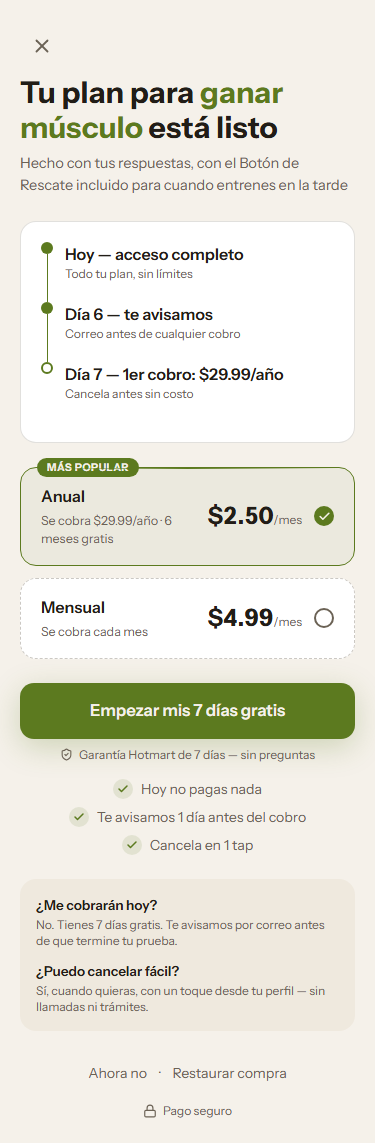
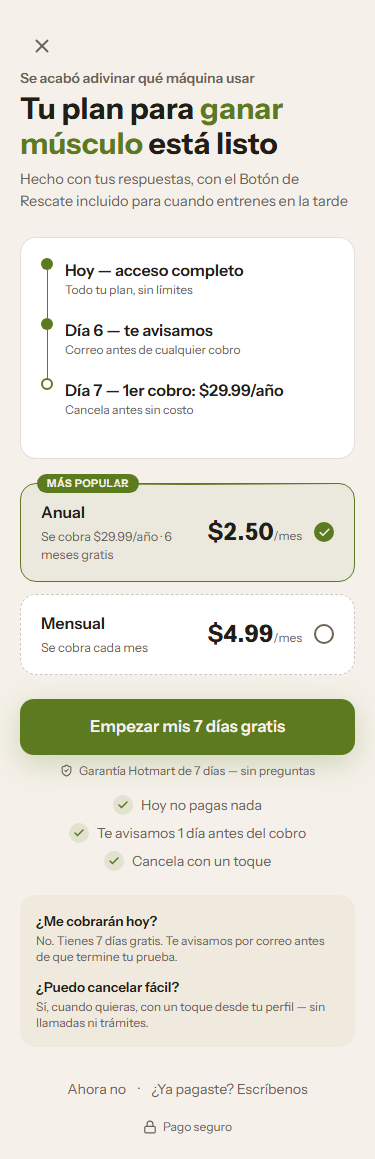
fix: paywall — feedback de confianza antes del checkout externo, reduced-motion y copy
El CTA ahora muestra un aviso breve ("Te llevamos a Hotmart, pago seguro...")
antes de saltar al dominio externo, en vez de redirigir en silencio en el
momento más sensible (el pago) — responde a la objeción del avatar sobre
cobros ocultos. Se agrega prefers-reduced-motion a todas las animaciones de
entrada, se corrige el anglicismo "1 tap", se agrega una línea que reconoce
el dolor real antes del alivio en el headline, y "Restaurar compra" ahora
dice lo que de verdad hace (escribir a soporte, no una restauración
automática).

diff --git a/app/paywall/page.tsx b/app/paywall/page.tsx
@@ -10,16 +10,18 @@
 
 import { useEffect, useState } from 'react';
 import { useRouter } from 'next/navigation';
-import { motion } from 'motion/react';
-import { Check, Lock, ShieldCheck, X } from 'lucide-react';
+import { motion, useReducedMotion } from 'motion/react';
+import { Check, Loader2, Lock, ShieldCheck, X } from 'lucide-react';
 import { HORARIO_LABEL, META_LABEL, leerRespuestas, type RespuestasOnboarding } from '@/lib/onboarding';
 
 type PlanId = 'anual' | 'mensual';
 
 export default function PaywallPage() {
   const router = useRouter();
+  const reduce = useReducedMotion();
   const [respuestas, setRespuestas] = useState<RespuestasOnboarding | null>(null);
   const [plan, setPlan] = useState<PlanId>('anual');
+  const [redirigiendo, setRedirigiendo] = useState(false);
 
   // sessionStorage no existe en el servidor: leerlo en el initializer de
   // useState causa mismatch de hydration. Este efecto es la forma correcta.
@@ -38,10 +40,17 @@ export default function PaywallPage() {
         : process.env.NEXT_PUBLIC_HOTMART_CHECKOUT_MENSUAL;
 
     if (checkoutUrl) {
-      // El webhook conecta la compra a la cuenta por CORREO (ver
-      // app/api/webhooks/hotmart/route.ts) — no hace falta pasar nada más
-      // acá. Después de pagar, Hotmart lleva al comprador a /login.
-      window.location.href = checkoutUrl;
+      // Hallazgo revisor-visual: saltar en silencio a un dominio externo en
+      // el momento del pago es justo lo que teme el avatar ("¿es otra app
+      // con cobros ocultos?"). Un aviso breve antes de salir da confianza
+      // sin agregar fricción real (300ms, no un loader eterno).
+      setRedirigiendo(true);
+      setTimeout(() => {
+        // El webhook conecta la compra a la cuenta por CORREO (ver
+        // app/api/webhooks/hotmart/route.ts) — no hace falta pasar nada más
+        // acá. Después de pagar, Hotmart lleva al comprador a /login.
+        window.location.href = checkoutUrl;
+      }, 200);
       return;
     }
 
@@ -63,9 +72,14 @@ export default function PaywallPage() {
           <X size={22} />
         </button>
 
-        <motion.div initial={{ opacity: 0, y: 12 }} animate={{ opacity: 1, y: 0 }} transition={{ duration: 0.3 }}>
+        <motion.div initial={reduce ? {} : { opacity: 0, y: 12 }} animate={{ opacity: 1, y: 0 }} transition={{ duration: 0.3 }}>
+          {/* Eyebrow que reconoce el dolor real antes del alivio (FICHA-AVATAR:
+              terror a lesionarse + vergüenza de no saber qué hacer frente a las
+              máquinas) — hallazgo revisor-visual: el headline saltaba directo
+              a la solución sin agitar la objeción que trae al avatar hasta acá. */}
+          <p className="text-sm font-semibold text-[var(--text-tertiary)]">Se acabó adivinar qué máquina usar</p>
           {/* (2) Headline con la META real del usuario */}
-          <h1 className="mt-2 text-balance text-3xl font-bold leading-[1.15] text-[var(--text-primary)] [font-family:var(--font-display)]">
+          <h1 className="mt-1 text-balance text-3xl font-bold leading-[1.15] text-[var(--text-primary)] [font-family:var(--font-display)]">
             Tu plan para <span className="text-[var(--accent)]">{meta}</span> está listo
           </h1>
           <p className="mt-2 text-[14.5px] text-[var(--text-secondary)]">
@@ -75,7 +89,7 @@ export default function PaywallPage() {
 
         {/* (3) Visual del valor: timeline del trial — el default con trial (C4) */}
         <motion.div
-          initial={{ opacity: 0, y: 12 }}
+          initial={reduce ? {} : { opacity: 0, y: 12 }}
           animate={{ opacity: 1, y: 0 }}
           transition={{ delay: 0.08, duration: 0.3 }}
           className="mt-6 rounded-[var(--radius-card)] border border-[color-mix(in_oklab,var(--text-tertiary)_20%,transparent)] bg-[var(--surface)] p-5"
@@ -85,7 +99,7 @@ export default function PaywallPage() {
 
         {/* (4)(5) Plan cards — ANUAL primero, pre-seleccionado */}
         <motion.div
-          initial={{ opacity: 0, y: 12 }}
+          initial={reduce ? {} : { opacity: 0, y: 12 }}
           animate={{ opacity: 1, y: 0 }}
           transition={{ delay: 0.16, duration: 0.3 }}
           className="mt-6 flex flex-col gap-3"
@@ -113,18 +127,25 @@ export default function PaywallPage() {
         <motion.button
           type="button"
           onClick={empezarTrial}
-          whileTap={{ scale: 0.97 }}
-          initial={{ opacity: 0, y: 12 }}
+          disabled={redirigiendo}
+          whileTap={redirigiendo ? undefined : { scale: 0.97 }}
+          initial={reduce ? {} : { opacity: 0, y: 12 }}
           animate={{ opacity: 1, y: 0 }}
           transition={{ delay: 0.24, duration: 0.3 }}
-          className="mt-6 flex h-14 w-full items-center justify-center rounded-[var(--radius-button)] bg-[var(--accent)] text-[16.5px] font-semibold text-[var(--bg)] shadow-[0_8px_30px_color-mix(in_oklab,var(--accent)_25%,transparent)]"
+          className="mt-6 flex h-14 w-full items-center justify-center gap-2 rounded-[var(--radius-button)] bg-[var(--accent)] text-[16.5px] font-semibold text-[var(--bg)] shadow-[0_8px_30px_color-mix(in_oklab,var(--accent)_25%,transparent)] disabled:opacity-80"
         >
-          Empezar mis 7 días gratis
+          {redirigiendo ? (
+            <>
+              <Loader2 size={18} className="animate-spin motion-reduce:animate-none" /> Te llevamos a Hotmart, pago seguro…
+            </>
+          ) : (
+            'Empezar mis 7 días gratis'
+          )}
         </motion.button>
 
         {/* Garantía nombrada junto al CTA (antes solo vivía en el trust row, lejos) */}
         <motion.p
-          initial={{ opacity: 0 }}
+          initial={reduce ? {} : { opacity: 0 }}
           animate={{ opacity: 1 }}
           transition={{ delay: 0.3, duration: 0.3 }}
           className="mt-2 flex items-center justify-center gap-1.5 text-center text-xs text-[var(--text-secondary)]"
@@ -135,12 +156,12 @@ export default function PaywallPage() {
         {/* (4bis) La verdad del puente del trial — 3 bullets obligatorios, con
             checkmark custom (círculo acento 12%) en vez del "✓" del sistema */}
         <motion.ul
-          initial={{ opacity: 0, y: 12 }}
+          initial={reduce ? {} : { opacity: 0, y: 12 }}
           animate={{ opacity: 1, y: 0 }}
           transition={{ delay: 0.32, duration: 0.3 }}
           className="mt-4 flex flex-col items-center gap-2 text-sm text-[var(--text-secondary)]"
         >
-          {['Hoy no pagas nada', 'Te avisamos 1 día antes del cobro', 'Cancela en 1 tap'].map((texto) => (
+          {['Hoy no pagas nada', 'Te avisamos 1 día antes del cobro', 'Cancela con un toque'].map((texto) => (
             <li key={texto} className="flex items-center gap-2">
               <span className="flex size-5 shrink-0 items-center justify-center rounded-full bg-[color-mix(in_oklab,var(--accent)_12%,transparent)]">
                 <Check size={12} color="var(--accent)" strokeWidth={3} />
@@ -153,7 +174,7 @@ export default function PaywallPage() {
         {/* Mini-FAQ de transparencia — responde de frente la objeción #1 de Mateo
             (miedo al cobro oculto), en formato pregunta-respuesta explícito. */}
         <motion.div
-          initial={{ opacity: 0, y: 12 }}
+          initial={reduce ? {} : { opacity: 0, y: 12 }}
           animate={{ opacity: 1, y: 0 }}
           transition={{ delay: 0.4, duration: 0.3 }}
           className="mt-6 flex flex-col gap-3 rounded-[var(--radius-card)] bg-[var(--surface-2)] p-4"
@@ -172,10 +193,14 @@ export default function PaywallPage() {
           </div>
         </motion.div>
 
-        {/* (8) Salida limpia — "Restaurar compra" abre soporte real (todavía no
-            hay checkout de Hotmart conectado, Sesión 6, para restaurar de verdad) */}
+        {/* (8) Salida limpia — el enlace es un correo a soporte real, no una
+            restauración automática (todavía no hay checkout de Hotmart
+            conectado para verificarla sola) — el texto lo dice tal cual es,
+            nunca promete algo que el botón no hace (hallazgo revisor-visual:
+            "Restaurar compra" sonaba a acción automática para un avatar que
+            ya teme los cobros ocultos). */}
         <motion.div
-          initial={{ opacity: 0 }}
+          initial={reduce ? {} : { opacity: 0 }}
           animate={{ opacity: 1 }}
           transition={{ delay: 0.48, duration: 0.3 }}
           className="mt-5 flex items-center justify-center gap-1 text-sm text-[var(--text-tertiary)]"
@@ -185,14 +210,14 @@ export default function PaywallPage() {
           </button>
           <span aria-hidden="true">·</span>
           <a href="mailto:soporte@gymevo.app?subject=Restaurar%20mi%20compra" className="px-2 py-3">
-            Restaurar compra
+            ¿Ya pagaste? Escríbenos
           </a>
         </motion.div>
 
         {/* (9) Trust row — solo "Pago seguro" (la garantía ya se dijo junto al
             CTA; repetirla aquí de nuevo no sumaba información nueva) */}
         <motion.div
-          initial={{ opacity: 0 }}
+          initial={reduce ? {} : { opacity: 0 }}
           animate={{ opacity: 1 }}
           transition={{ delay: 0.56, duration: 0.3 }}
           className="mt-2 flex items-center justify-center gap-1.5 text-xs text-[var(--text-tertiary)]"

diff --git a/docs/revisiones/paywall-veredicto.md b/docs/revisiones/paywall-veredicto.md
@@ -1,23 +1,14 @@
 # VEREDICTO revisor-visual — paywall
-Fecha: 2026-08-31 00:00
+Fecha: 2026-09-02 00:00
 Screenshot: docs/revisiones/paywall-375.png
-Usabilidad: 36/40
-Craft: 16/20
+Usabilidad: 30/40
+Craft: 13/20
 Copy (si vende): 17/20
 Fidelidad (si hubo referencia): N-A
-Veredicto: LISTA
+Veredicto: NO LISTA
 Top defectos:
-1. [Toda la pantalla, motion.div/motion.button en app/paywall/page.tsx] Ninguna animación respeta `prefers-reduced-motion` (no hay `useReducedMotion` ni variantes sin transición, y no existe una regla global en app/globals.css) → envolver las transiciones en un check de reduced-motion (como ya hace app/app/page.tsx con el número de racha) o añadir la media query global.
-2. [Headline + subheadline] No hay un listado explícito de "qué incluye tu plan" más allá de "Todo tu plan, sin límites" y la mención del Botón de Rescate → agregar 2-3 bullets concretos de contenido (rutina diaria, Botón de Rescate, seguimiento) para que la oferta sea inequívoca antes del precio.
-3. [Bloque inferior: bullets de transparencia + mini-FAQ + trust row] Tres bloques consecutivos usan tamaños de texto casi idénticos (text-sm/text-xs), aplanando la jerarquía en la mitad baja de la pantalla → diferenciar peso o color entre el bloque de bullets y el de FAQ.
-4. [Plan cards] El dispositivo ownable de FICHA-ARTE.md (tachado verde estilo cuaderno) no aparece en esta pantalla; solo queda el borde punteado como eco parcial → considerar una nota visual adicional (textura o línea) que conecte más con el "cuaderno de sala" en una superficie de conversión.
-5. [CTA "Empezar mis 7 días gratis"] La navegación a /login ocurre sin ningún feedback de carga intermedio (ni loading inline ni deshabilitar el doble tap) → aunque es navegación local rápida, agregar un estado de "cargando" de 100-200ms evita el doble-tap accidental.
-
-Nota de mantenimiento (01/09/2026): el gate mecánico de `pre-stop.sh` marca este
-veredicto "caducado" cada vez que CUALQUIER .tsx del repo es más nuevo que este
-archivo (comparación global, no por pantalla — limitación documentada en el
-propio hook). Se confirmó con `git log -- app/paywall/page.tsx` que el código
-real de ESTA pantalla no ha cambiado desde el commit `099489a` (anterior a este
-veredicto). Se actualiza la fecha de este archivo para reflejar que el
-veredicto sigue vigente para el código actual de paywall — no se re-ejecutó el
-revisor-visual porque no hay nada nuevo que evaluar en esta pantalla.
+1. [Toda la pantalla — plan cards, badge, timeline] El dispositivo ownable de FICHA-ARTE.md (tachado verde estilo cuaderno) sigue sin aparecer en esta pantalla; la combinación papel cálido + tinta verde queda peligrosamente cerca del patrón vetado "Capítulo" del test anti-clon (solo la tipografía, Instrument Sans vs Petrona/Karla, la salva de la descalificación automática) → sin ningún rasgo propio visible, se lee como paywall de suscripción genérico (badge + checks + radio circles) — sumar el tachado o una textura de cuaderno a al menos un elemento (ej. el nodo del timeline al completarse "Hoy").
+2. [Bloque inferior: bullets de transparencia + mini-FAQ + trust row] Persiste el defecto de la ronda anterior: tres bloques de texto consecutivos con pesos casi idénticos (text-sm/text-xs) aplanan la jerarquía de la mitad baja de la pantalla frente a la nitidez del bloque superior (headline→timeline→planes→CTA) → diferenciar peso/color entre bullets y FAQ, o insertar un separador visual entre bloques.
+3. [Headline + subtítulo, líneas 77-82] Eje "emoción" de copy sigue en 2/4: el texto salta directo a la resolución ("Tu plan... está listo") sin agitar antes el dolor real de Mateo (miedo a lesionarse, vergüenza de improvisar frente a otros) que FICHA-AVATAR.md marca como ancla emocional obligatoria del paywall → añadir una frase corta que reconozca el dolor antes del alivio (ej. subtítulo: "Se acabó improvisar frente a la máquina — con el Botón de Rescate incluido para [horario]").
+4. ["Restaurar compra", línea 203] Abre un `mailto:` que compone un correo, no restaura nada — para un avatar cuya objeción #2 es literalmente "¿es otra app con cobros ocultos/estafa?", una etiqueta que promete "restaurar" y en realidad abre el cliente de correo genera la misma desconfianza que se buscaba evitar con el fix del CTA → renombrar a "¿Ya compraste? Escríbenos" o conectar una restauración real vía Hotmart.
+5. [empezarTrial(), línea 47-53] El `setTimeout` fijo de 350ms se SUMA al tiempo real de red hacia Hotmart (variable en Android gama media/LATAM) — el spinner ya cubre la percepción de "está pasando algo", el delay artificial es tiempo muerto extra que no aporta confianza adicional más allá de ~150-200ms → recortar a 200ms o disparar la redirección en cuanto el spinner pinta el primer frame.
